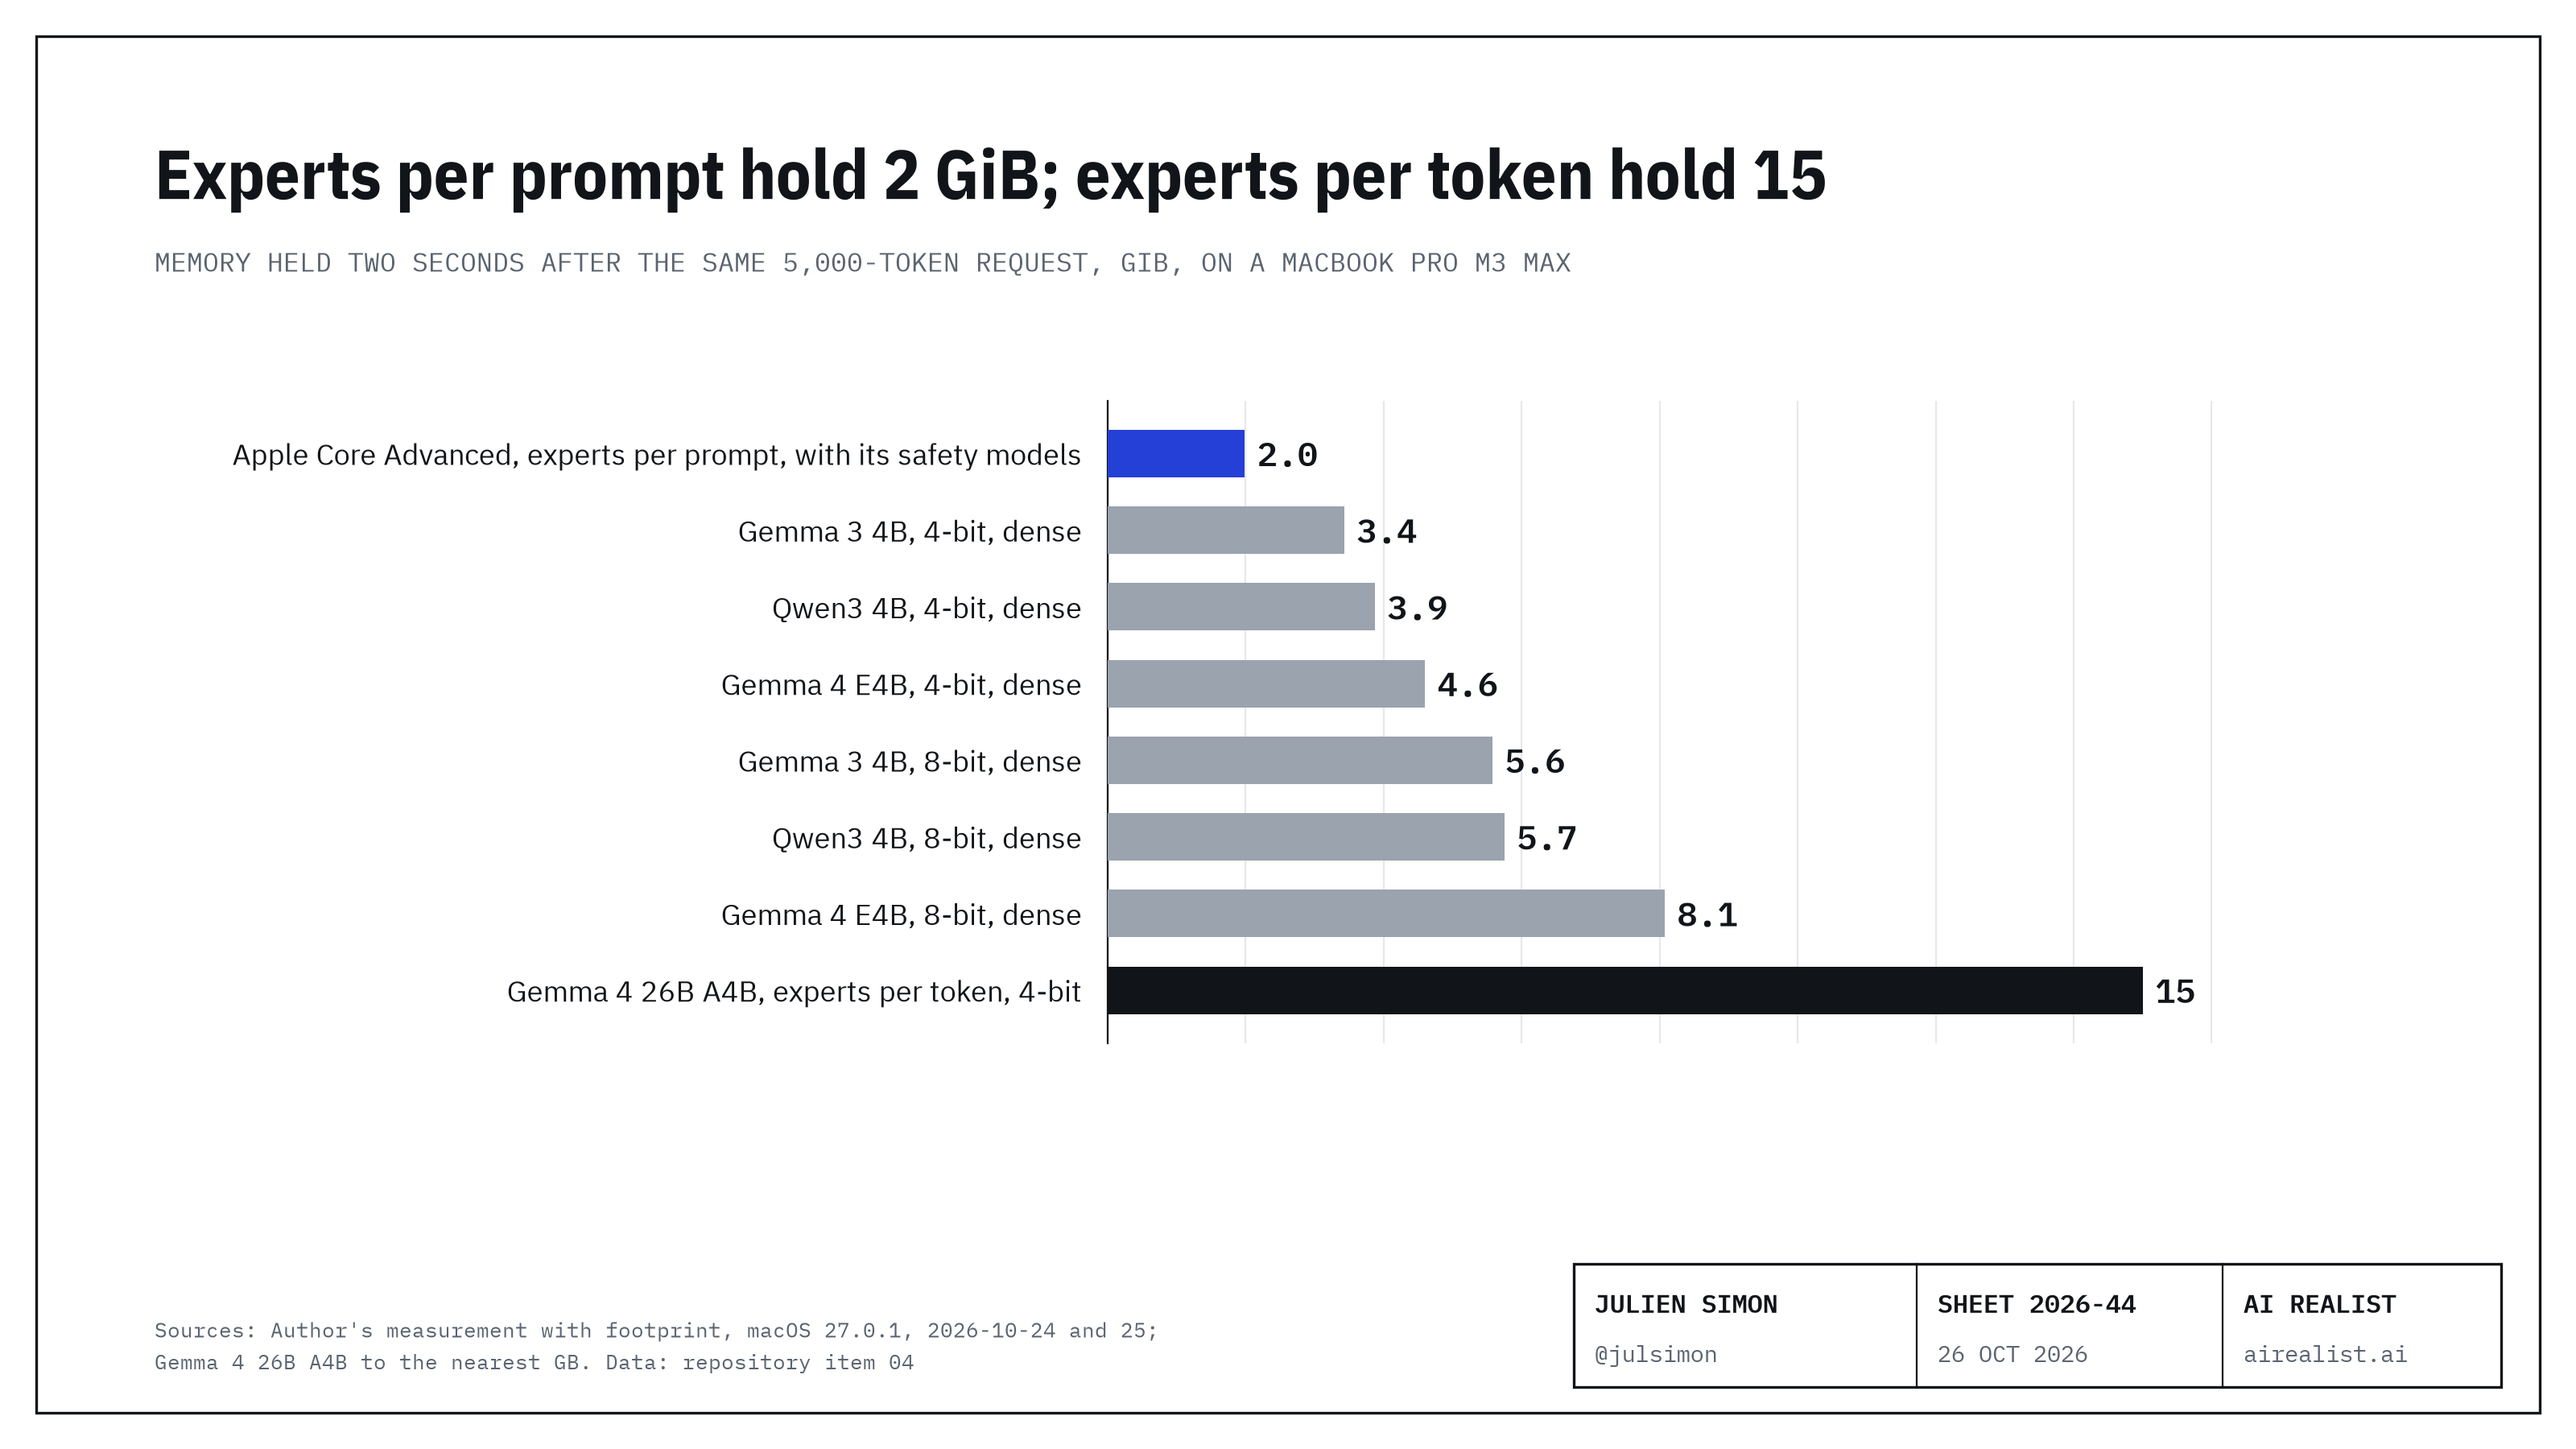
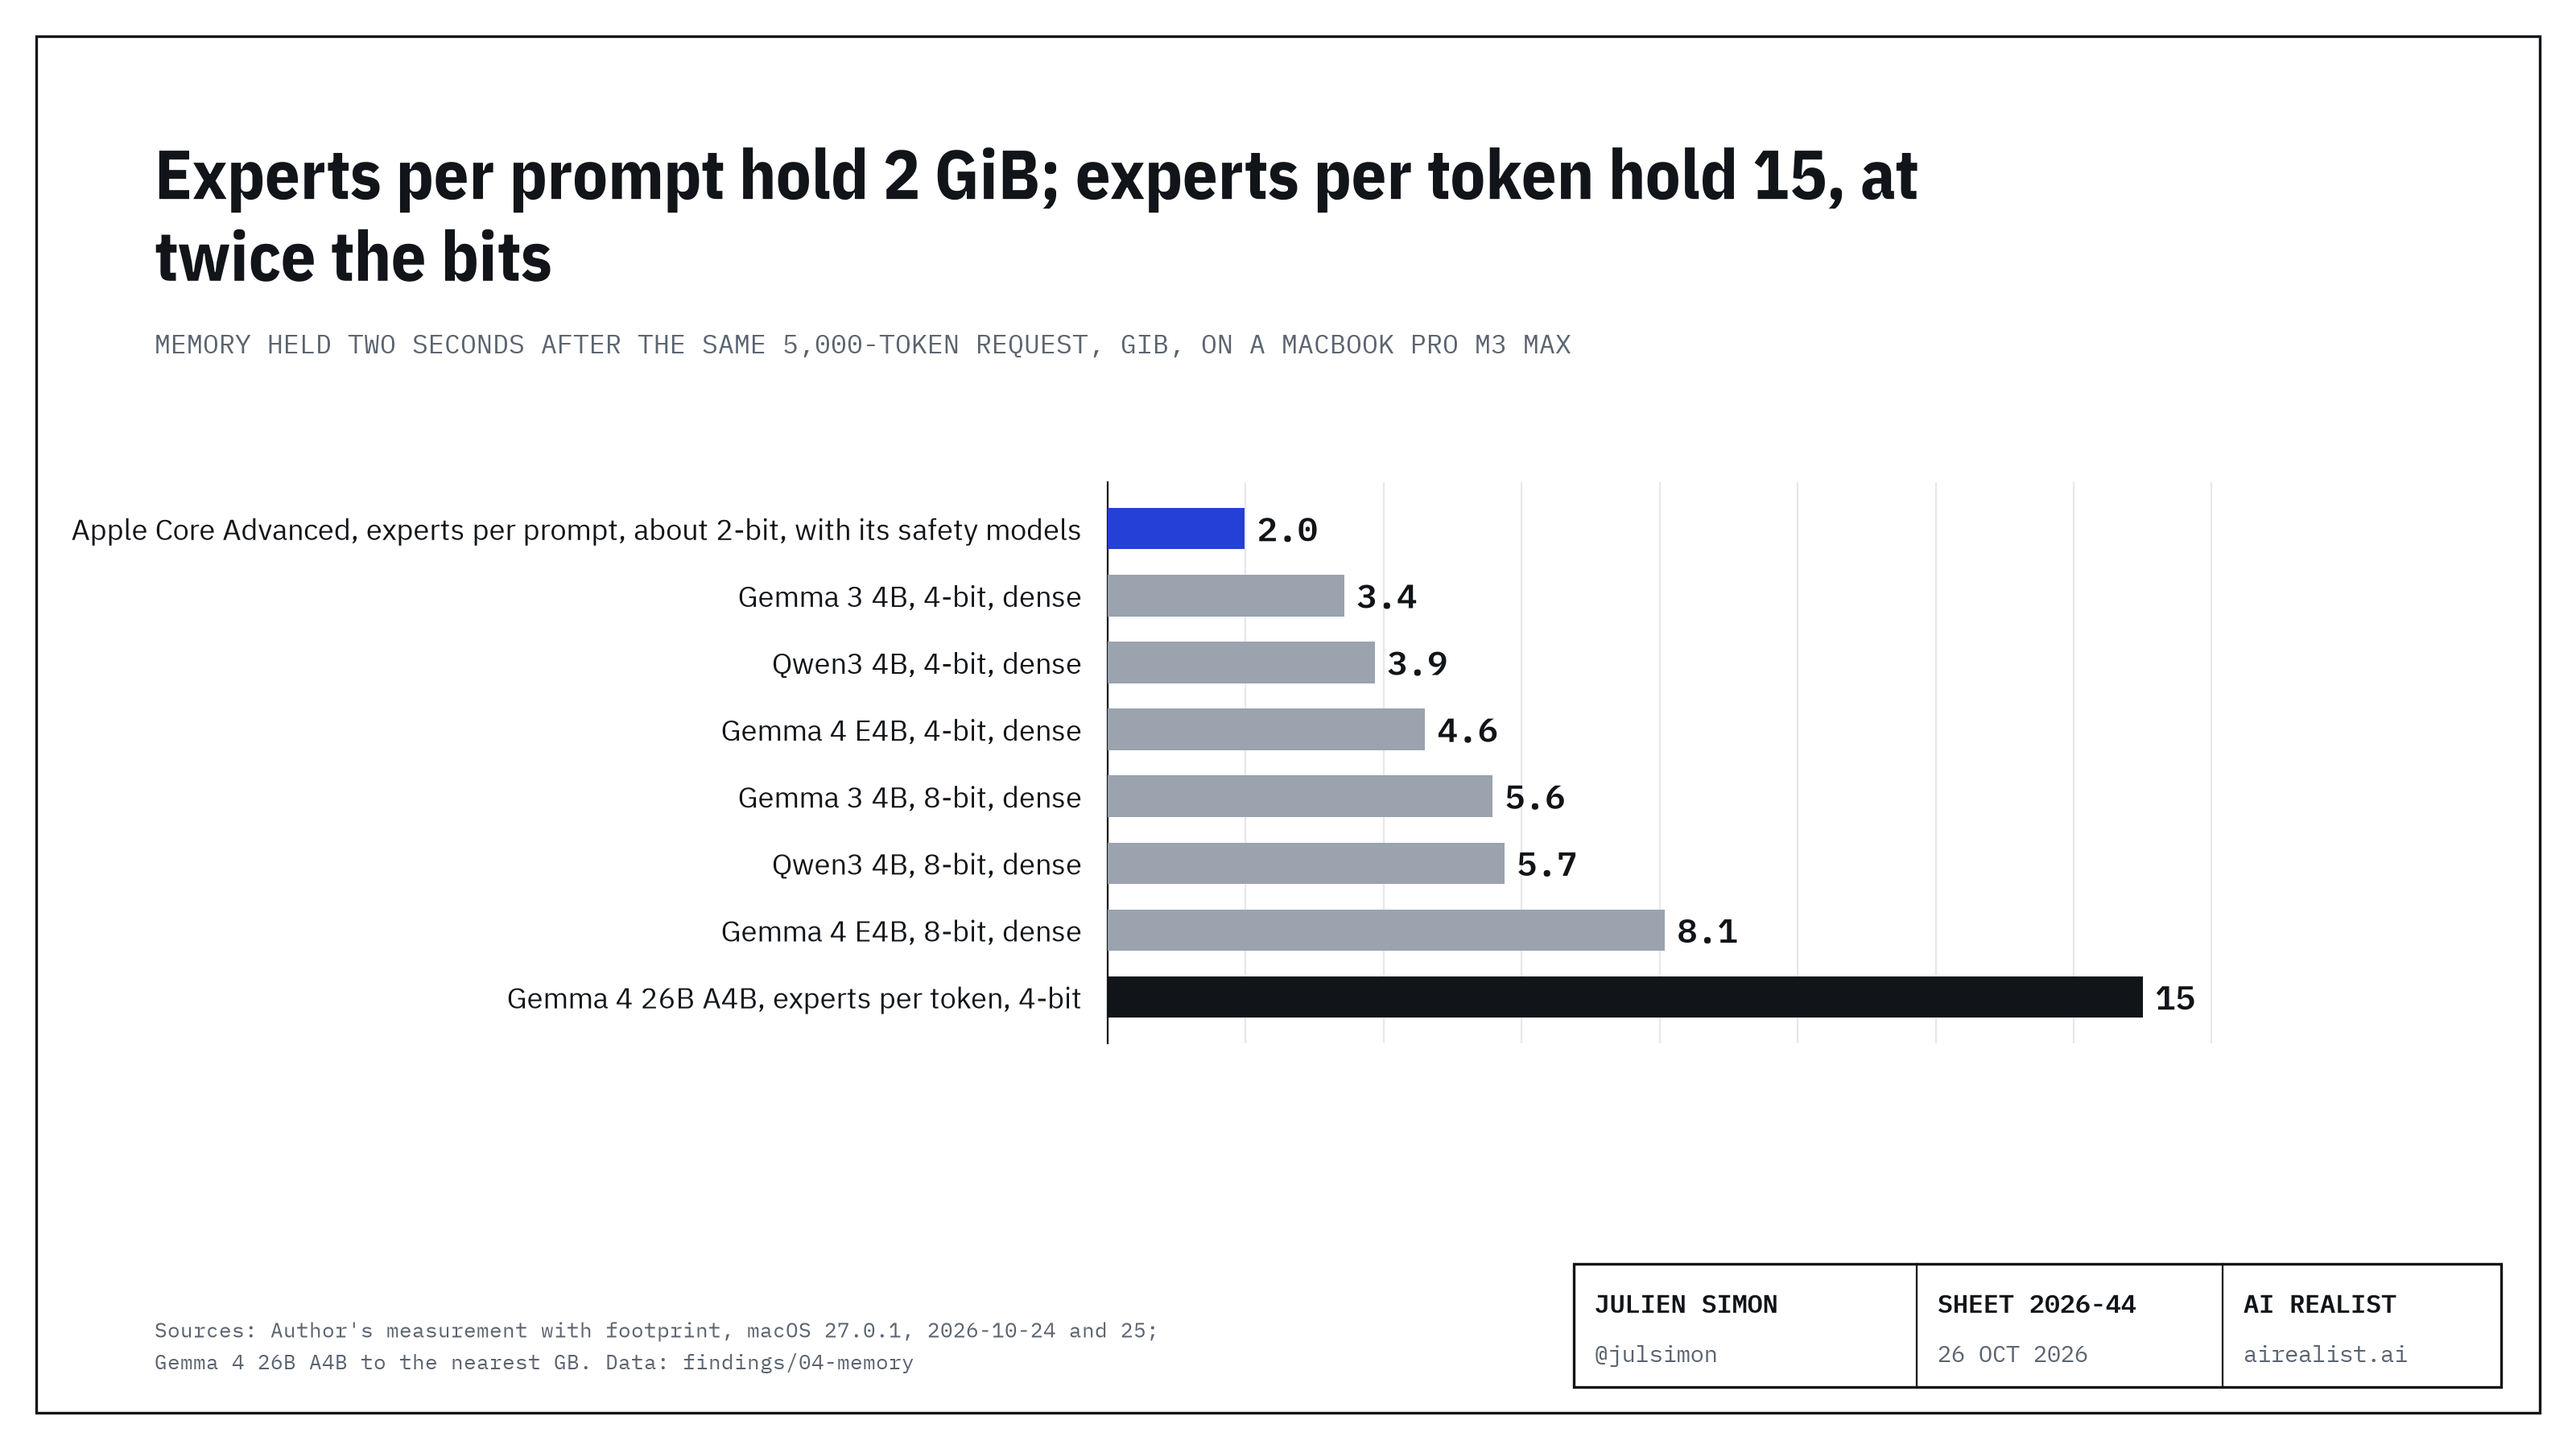
Memory chart: Apple's bit width on its bar and in the title

diff --git a/scripts/charts/make_charts_mac.py b/scripts/charts/make_charts_mac.py
@@ -189,13 +189,13 @@ if "memory" in want:
         return foot + sum(to_mib(r[c]) for r in fc if r["snapshot"] == "after" and r["pid"] == pid and r["category"] in out for c in ("dirty", "clean", "reclaimable"))
 
     label = {"qwen3-4b": "Qwen3 4B", "gemma3-4b": "Gemma 3 4B", "gemma4-e4b": "Gemma 4 E4B", "gemma4-26b-a4b": "Gemma 4 26B A4B, experts per token"}
-    items = [("Apple Core Advanced, experts per prompt, with its safety models", (apple_after("9704") + apple_after("9700")) / 1024, ACCENT)]
+    items = [("Apple Core Advanced, experts per prompt, about 2-bit, with its safety models", (apple_after("9704") + apple_after("9700")) / 1024, ACCENT)]
     for r in proto:
         base, bits = r["label"].rsplit("-", 1)
         moe = base == "gemma4-26b-a4b"
         items.append((f"{label[base]}, {bits.replace('bit', '-bit')}" + ("" if moe else ", dense"), r["footprint_mib_after_2s"] / 1024, INK if moe else GREY))
     items.sort(key=lambda kv: kv[1])
-    s = Sheet("substack", "Experts per prompt hold 2 GiB; experts per token hold 15",
+    s = Sheet("substack", "Experts per prompt hold 2 GiB; experts per token hold 15, at twice the bits",
               "Memory held two seconds after the same 5,000-token request, GiB, on a MacBook Pro M3 Max",
               "Author's measurement with footprint, macOS 27.0.1, 2026-10-24 and 25; Gemma 4 26B A4B to the nearest GB. Data: findings/04-memory",
               day=DAY)
